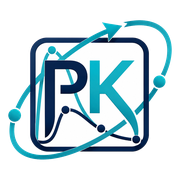
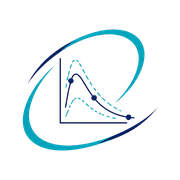
feat(branding): actualizar isotipo oficial con la nueva curva PK orbital en todas las páginas e íconos

diff --git a/farmacos.html b/farmacos.html
@@ -6,7 +6,10 @@
   <meta name="viewport" content="width=device-width, initial-scale=1.0">
   <meta name="description" content="Modelos farmacocinéticos validados en PK-Bayes: Vancomicina (cinética lineal multicompartimental, guías ASHP 2020 AUC/MIC) y Fenitoína (cinética saturable Michaelis-Menten, corrección Sheiner-Tozer).">
   <meta name="theme-color" content="#0a192f">
-  <link rel="icon" type="image/png" href="assets/img/favicon-64.png">
+  <link rel="icon" type="image/svg+xml" href="assets/img/favicon.svg">
+  <link rel="icon" type="image/png" sizes="64x64" href="assets/img/favicon-64.png">
+  <link rel="icon" type="image/png" sizes="32x32" href="assets/img/favicon-32.png">
+  <link rel="apple-touch-icon" sizes="180x180" href="assets/img/apple-touch-icon.png">
   <link rel="preconnect" href="https://fonts.googleapis.com">
   <link rel="preconnect" href="https://fonts.gstatic.com" crossorigin>
   <link href="https://fonts.googleapis.com/css2?family=Inter:wght@400;500;600;700;800;900&display=swap" rel="stylesheet">

diff --git a/funcionalidades.html b/funcionalidades.html
@@ -6,7 +6,10 @@
   <meta name="viewport" content="width=device-width, initial-scale=1.0">
   <meta name="description" content="Descubre las capacidades de PK-Bayes: estimación bayesiana MAP en tiempo real, simulación what-if multicompartimental, aclaramiento renal dinámico CL(t), priors institucionales y exportación PopPK.">
   <meta name="theme-color" content="#0a192f">
-  <link rel="icon" type="image/png" href="assets/img/favicon-64.png">
+  <link rel="icon" type="image/svg+xml" href="assets/img/favicon.svg">
+  <link rel="icon" type="image/png" sizes="64x64" href="assets/img/favicon-64.png">
+  <link rel="icon" type="image/png" sizes="32x32" href="assets/img/favicon-32.png">
+  <link rel="apple-touch-icon" sizes="180x180" href="assets/img/apple-touch-icon.png">
   <link rel="preconnect" href="https://fonts.googleapis.com">
   <link rel="preconnect" href="https://fonts.gstatic.com" crossorigin>
   <link href="https://fonts.googleapis.com/css2?family=Inter:wght@400;500;600;700;800;900&display=swap" rel="stylesheet">

diff --git a/index.html b/index.html
@@ -6,7 +6,10 @@
   <meta name="viewport" content="width=device-width, initial-scale=1.0">
   <meta name="description" content="PK-Bayes es una plataforma clínica de apoyo a la decisión (CDSS) que calcula pautas de dosificación individualizadas para vancomicina y fenitoína mediante estimación bayesiana MAP en tiempo real.">
   <meta name="theme-color" content="#0a192f">
-  <link rel="icon" type="image/png" href="assets/img/favicon-64.png">
+  <link rel="icon" type="image/svg+xml" href="assets/img/favicon.svg">
+  <link rel="icon" type="image/png" sizes="64x64" href="assets/img/favicon-64.png">
+  <link rel="icon" type="image/png" sizes="32x32" href="assets/img/favicon-32.png">
+  <link rel="apple-touch-icon" sizes="180x180" href="assets/img/apple-touch-icon.png">
   <link rel="preconnect" href="https://fonts.googleapis.com">
   <link rel="preconnect" href="https://fonts.gstatic.com" crossorigin>
   <link href="https://fonts.googleapis.com/css2?family=Inter:wght@400;500;600;700;800;900&display=swap" rel="stylesheet">

diff --git a/precios.html b/precios.html
@@ -6,7 +6,10 @@
   <meta name="viewport" content="width=device-width, initial-scale=1.0">
   <meta name="description" content="Planes de PK-Bayes: prueba gratuita de 14 días, plan Académico (800 USD/año), plan Hospitalario (1.000 USD/año) y plan Institucional Académico (1.500 USD/año). Sin contratos opacos.">
   <meta name="theme-color" content="#0a192f">
-  <link rel="icon" type="image/png" href="assets/img/favicon-64.png">
+  <link rel="icon" type="image/svg+xml" href="assets/img/favicon.svg">
+  <link rel="icon" type="image/png" sizes="64x64" href="assets/img/favicon-64.png">
+  <link rel="icon" type="image/png" sizes="32x32" href="assets/img/favicon-32.png">
+  <link rel="apple-touch-icon" sizes="180x180" href="assets/img/apple-touch-icon.png">
   <link rel="preconnect" href="https://fonts.googleapis.com">
   <link rel="preconnect" href="https://fonts.gstatic.com" crossorigin>
   <link href="https://fonts.googleapis.com/css2?family=Inter:wght@400;500;600;700;800;900&display=swap" rel="stylesheet">

diff --git a/ejemplos.html b/ejemplos.html
@@ -6,7 +6,10 @@
   <meta name="viewport" content="width=device-width, initial-scale=1.0">
   <meta name="description" content="Tres flujos de trabajo reales con datos sintéticos: ajuste de vancomicina en UCI, corrección de fenitoína por hipoalbuminemia y calibración de priors institucionales.">
   <meta name="theme-color" content="#0a192f">
-  <link rel="icon" type="image/png" href="assets/img/favicon-64.png">
+  <link rel="icon" type="image/svg+xml" href="assets/img/favicon.svg">
+  <link rel="icon" type="image/png" sizes="64x64" href="assets/img/favicon-64.png">
+  <link rel="icon" type="image/png" sizes="32x32" href="assets/img/favicon-32.png">
+  <link rel="apple-touch-icon" sizes="180x180" href="assets/img/apple-touch-icon.png">
   <link rel="preconnect" href="https://fonts.googleapis.com">
   <link rel="preconnect" href="https://fonts.gstatic.com" crossorigin>
   <link href="https://fonts.googleapis.com/css2?family=Inter:wght@400;500;600;700;800;900&display=swap" rel="stylesheet">

diff --git a/acceso.html b/acceso.html
@@ -6,7 +6,10 @@
   <meta name="viewport" content="width=device-width, initial-scale=1.0">
   <meta name="description" content="Accede a la plataforma clínica PK-Bayes si ya tienes una cuenta activa, o comienza tu prueba gratuita de 14 días.">
   <meta name="theme-color" content="#0a192f">
-  <link rel="icon" type="image/png" href="assets/img/favicon-64.png">
+  <link rel="icon" type="image/svg+xml" href="assets/img/favicon.svg">
+  <link rel="icon" type="image/png" sizes="64x64" href="assets/img/favicon-64.png">
+  <link rel="icon" type="image/png" sizes="32x32" href="assets/img/favicon-32.png">
+  <link rel="apple-touch-icon" sizes="180x180" href="assets/img/apple-touch-icon.png">
   <link rel="preconnect" href="https://fonts.googleapis.com">
   <link rel="preconnect" href="https://fonts.gstatic.com" crossorigin>
   <link href="https://fonts.googleapis.com/css2?family=Inter:wght@400;500;600;700;800;900&display=swap" rel="stylesheet">

diff --git a/gracias.html b/gracias.html
@@ -7,7 +7,10 @@
   <meta name="description" content="Tu pago se ha procesado correctamente. Accede ahora a la plataforma PK-Bayes.">
   <meta name="theme-color" content="#0a192f">
   <meta name="robots" content="noindex">
-  <link rel="icon" type="image/png" href="assets/img/favicon-64.png">
+  <link rel="icon" type="image/svg+xml" href="assets/img/favicon.svg">
+  <link rel="icon" type="image/png" sizes="64x64" href="assets/img/favicon-64.png">
+  <link rel="icon" type="image/png" sizes="32x32" href="assets/img/favicon-32.png">
+  <link rel="apple-touch-icon" sizes="180x180" href="assets/img/apple-touch-icon.png">
   <link rel="preconnect" href="https://fonts.googleapis.com">
   <link rel="preconnect" href="https://fonts.gstatic.com" crossorigin>
   <link href="https://fonts.googleapis.com/css2?family=Inter:wght@400;500;600;700;800;900&display=swap" rel="stylesheet">

diff --git a/cancelado.html b/cancelado.html
@@ -7,7 +7,10 @@
   <meta name="description" content="El proceso de pago fue cancelado. No se ha realizado ningún cargo.">
   <meta name="theme-color" content="#0a192f">
   <meta name="robots" content="noindex">
-  <link rel="icon" type="image/png" href="assets/img/favicon-64.png">
+  <link rel="icon" type="image/svg+xml" href="assets/img/favicon.svg">
+  <link rel="icon" type="image/png" sizes="64x64" href="assets/img/favicon-64.png">
+  <link rel="icon" type="image/png" sizes="32x32" href="assets/img/favicon-32.png">
+  <link rel="apple-touch-icon" sizes="180x180" href="assets/img/apple-touch-icon.png">
   <link rel="preconnect" href="https://fonts.googleapis.com">
   <link rel="preconnect" href="https://fonts.gstatic.com" crossorigin>
   <link href="https://fonts.googleapis.com/css2?family=Inter:wght@400;500;600;700;800;900&display=swap" rel="stylesheet">

diff --git a/assets/css/styles.css b/assets/css/styles.css
@@ -525,6 +525,7 @@ select.control-select {
 @media (max-width: 800px) { .footer-grid { grid-template-columns: 1fr 1fr; } }
 @media (max-width: 520px) { .footer-grid { grid-template-columns: 1fr; } }
 .footer-brand .brand { color: #fff; }
+.footer-brand .brand-mark { background: #ffffff; border-radius: 10px; padding: 3px; box-shadow: 0 2px 8px rgba(0,0,0,0.25); }
 .footer-grid p { font-size: 0.88rem; margin-top: 12px; max-width: 280px; }
 .footer-col h5 { color: #fff; font-size: 0.8rem; text-transform: uppercase; letter-spacing: 0.05em; margin-bottom: 16px; }
 .footer-col ul { display: flex; flex-direction: column; gap: 10px; }
